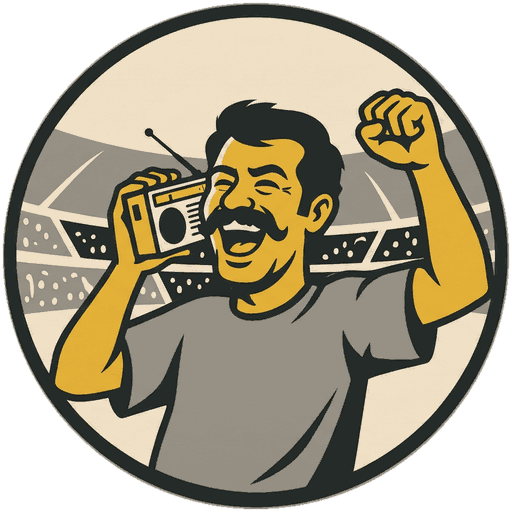
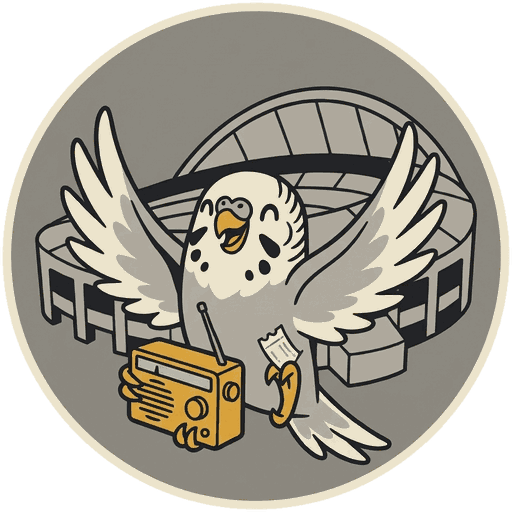
feat: make a parakeet the mascot of the geral

diff --git a/scripts/make_brand.py b/scripts/make_brand.py
@@ -31,6 +31,8 @@ def cut_mascot(path, circle=False):
     border += [(x, y) for y in range(h) for x in (0, w - 1)]
     counts = Counter(tuple(c // 8 * 8 for c in px[p]) for p in border)
     tones = sorted((t for t, _ in counts.most_common(2)), key=sum)  # [grey, white]
+    if len(tones) == 1:  # a plain background (the Gemini API), not a fake checkerboard
+        tones *= 2
 
     def near(p, tone):
         return all(abs(a - b) <= 20 for a, b in zip(p, tone, strict=True))

diff --git a/docs/features/identidade-geral.md b/docs/features/identidade-geral.md
@@ -1,7 +1,7 @@
 # Identidade visual da Geral (o hub)
 
 - **Data:** 2026-11-10
-- **Status:** imagens geradas (o Nano Banana pintou a pele de amarelo; aceito por ora)
+- **Status:** periquito no lugar do geraldino (2026-11-11)
 - **ADRs:** —
 
 ## Objetivo
@@ -24,36 +24,32 @@ seus mascotes.
   |---|---|---|
   | concreto | `#8E8B84` | destaque principal, fundo do ícone |
   | concreto claro | `#B9B5AC` | arquibancada, traços secundários |
-  | papel de jornal antigo | `#EFE4CC` | fundo da página e do e-mail, camisa do geraldino |
-  | pele desbotada | `#C99A73` | só a pele do geraldino |
+  | papel de jornal antigo | `#EFE4CC` | fundo da página e do e-mail, penas claras do periquito |
   | amarelo de ingresso | `#E3B23C` | só detalhes: radinho, selos, "edição geral" |
   | tinta | `#1E1E1E` | contorno e texto |
 
-- Mascote: o **geraldino**, torcedor da Geral, em pé, radinho de pilha colado no ouvido, camisa
-  sem time, braço erguido no grito de gol; atrás dele, a curva da marquise de concreto.
+- Mascote: o **periquito** (2026-11-11, no lugar do geraldino): um periquito torcedor comemorando o gol
+  na frente do estádio redondo, de radinho de pilha e ingresso na mão, em concreto e papel de jornal
+  (sem verde, para não virar o mascote do Palmeiras). O geraldino segue na história do "Por que
+  Geral?", como o torcedor do Maracanã antigo.
 - Tipografia: condensada de pôster esportivo antigo (Oswald na logo, como as newsletters).
 - Arquivos em `src/geral/static/geral/`: `icon-512.png`, `logo-email.png`, `og-image.png`, gerados
-  por `scripts/make_brand.py` a partir do ícone do Nano Banana (`brand_src/geral.jpg`).
+  por `scripts/make_brand.py` a partir do ícone do Nano Banana (`brand_src/geral-periquito.png`).
 
-## Prompt do ícone (Nano Banana)
+## Prompt do ícone (Nano Banana Pro, `gemini-3-pro-image` pela chave do Gemini)
 
-> Retro 1970s Brazilian newspaper illustration style mascot logo: a "geraldino", an ordinary fan
-> standing in the old concrete stadium terraces, holding a small transistor radio against his ear,
-> other arm raised shouting a goal, plain shirt with no team colors, mustache, joyful and passionate
-> face, three-quarter view. Behind him, the curved concrete roof edge and terraces of a huge old
-> round stadium. Bold flat vector shapes, thick #1E1E1E outline, no gradients, no textures, no
-> text. Everything fits completely inside a solid #8E8B84 circle with a thin #EFE4CC ring; nothing
-> crosses the circle edge. Transparent background outside the circle. Readable at 32 px. Colors:
-> circle background #8E8B84; terraces and roof #B9B5AC; shirt #EFE4CC; skin #C99A73; hair, mustache
-> and outlines #1E1E1E; the radio is the only #E3B23C element. No green, no other colors. No club
-> crest, no club colors, no flags, no stadium logo.
+> Retro 1970s Brazilian newspaper illustration style mascot logo: a cheerful, cheeky little parakeet
+> (periquito) fan in the old concrete stadium terraces, wings raised celebrating a goal, holding a
+> small transistor radio, tiny paper ticket tucked under one wing. Behind it, the curved concrete
+> roof edge and terraces of a huge old round stadium. Bold flat vector shapes, thick #1E1E1E outline,
+> no gradients, no textures, no text. Everything fits completely inside a solid #8E8B84 circle with a
+> thin #EFE4CC ring; nothing crosses the circle edge. Plain white background outside the circle.
+> Readable at 32 px. Colors: circle background #8E8B84; terraces and roof #B9B5AC; the parakeet's
+> feathers in #EFE4CC and #B9B5AC with #1E1E1E markings; the radio is the only #E3B23C element. No
+> green, no other colors. No club crest, no club colors, no flags, no stadium logo. Square image.
 
-## Como gerar
-
-```bash
-python scripts/make_brand.py brand_src/geral.jpg src/geral/static/geral Geral "" "#1E1E1E" "#1E1E1E" Geral \
-  --circle "--paper=#EFE4CC" "--tagline=Todas as torcidas numa Geral só"
-```
+Gerado pela API (`google-genai`, `models.generate_content(model="gemini-3-pro-image", ...,
+response_modalities=["IMAGE"])`); o original fica em `brand_src/geral-periquito.png`.
 
 ## Critérios de aceite
 
